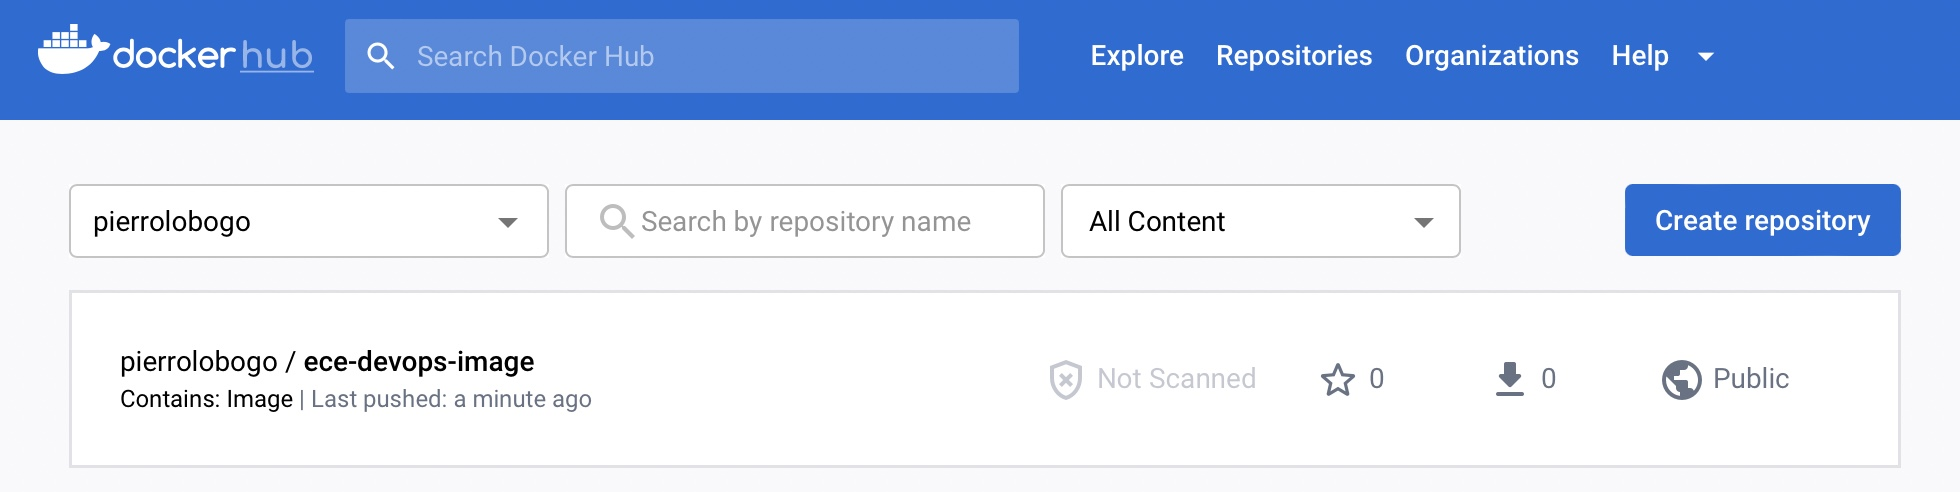
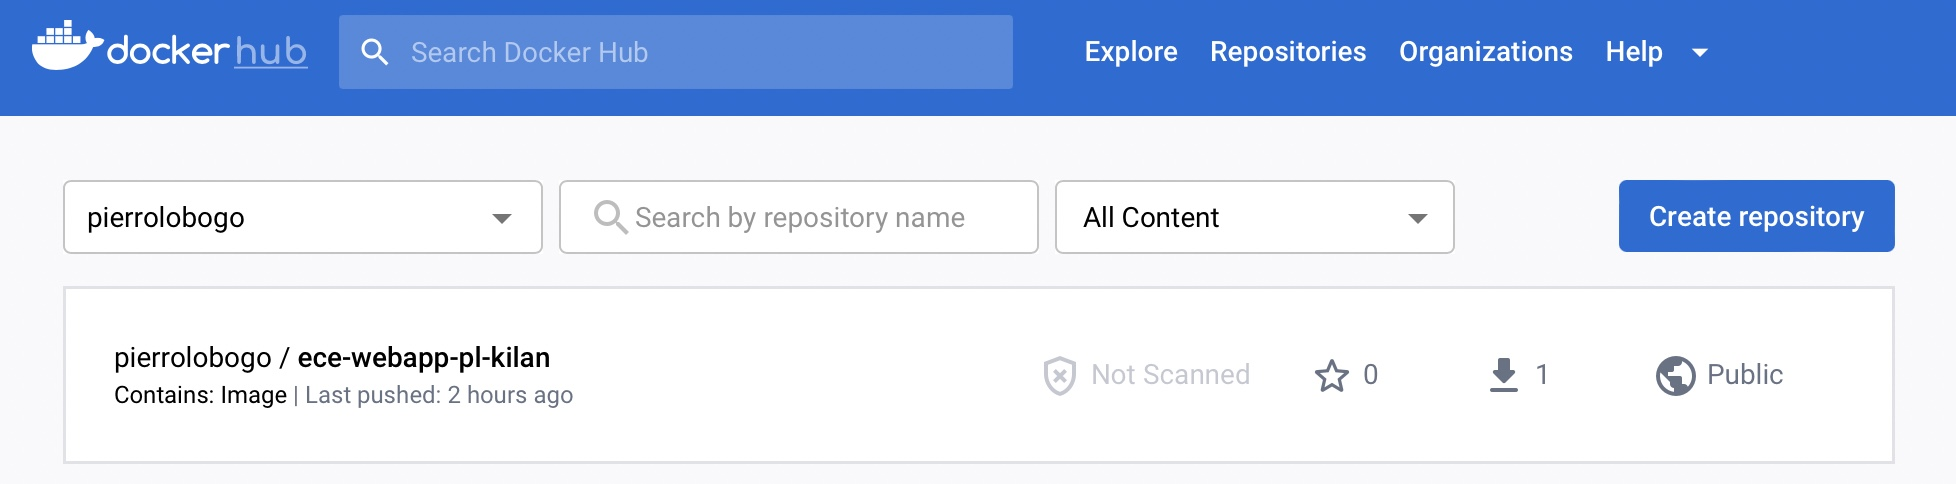
fix: Modify Readme.md

diff --git a/README.md b/README.md
@@ -1,4 +1,4 @@
-# README with report and screenshots
+# DevOps Project
 
 Author : KARDOUS Kilan / LETOQUART Pierre-Louis
 
@@ -34,10 +34,6 @@ $ npm start
 # run the tests
 $ npm test
 ```
-
-By using : "npm start", we have the app on the web :
-
-![npmstart](/images/npmstart.png)
 
 By using : "npm test", we have all the tests :
 
@@ -104,14 +100,14 @@ To ensure that the application runs correctly, we need to orchestrate it with a 
 
 ```bash
 # tag container
-$ docker tag ece-devops-image pierrolobogo/ece-devops-image
+$ docker tag ece-devops-image pierrolobogo/ece-webapp-pl-kilan
 # login with docker
 $ docker login
 # push the image on docker hub
-$ docker push pierrolobogo/ece-devops-image
+$ docker push pierrolobogo/ece-webapp-pl-kilan
 ```
 
-![dockerpush](/images/dockerpush.jpeg)
+![dockerpush](/images/dockerpush.png)
 
 Here we can see that the push on docker hub works :
 
@@ -191,7 +187,7 @@ $ kubectl get pods
 
 ![k8spersist2](/images/k8spersist2.jpeg)
 
-In this screen we can see that the Persistent volume and the Persistent volume claim are linked :
+In this screengit we can see that the Persistent volume and the Persistent volume claim are linked :
 
 ![k8sgetpv](/images/k8sgetpv.jpeg)
 
